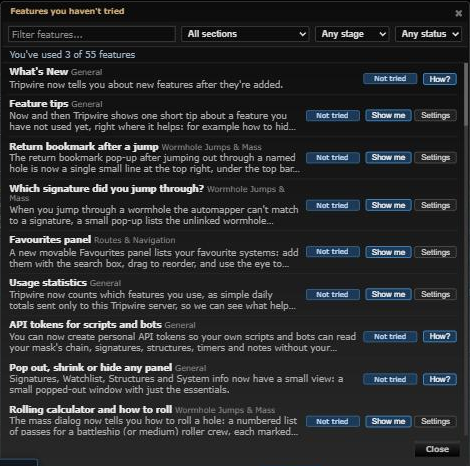
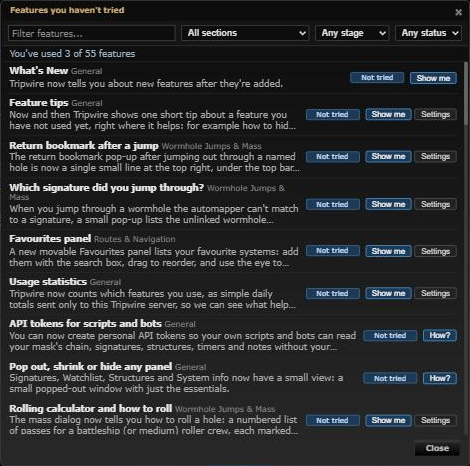
Features hub: review round 2
Hook-level tests for Try it not counting as use (forkCommands.execute and panelModes.setMode wrappers, featuresHub.open);
no Try it on What's New's own entry; retaken after.png / What's New image, Getting started link screenshot.

diff --git a/app/js-test/fork/try-it-usage.test.js b/app/js-test/fork/try-it-usage.test.js
@@ -1,0 +1,129 @@
+const assert = require('assert');
+const { include } = require('../helpers/helpers');
+
+function loadFiles() {
+	include('app/js/fork/feature-usage');
+	include('app/js/fork/feature-actions');
+	include('app/js/fork/features-hub');
+}
+
+// "Try it" / "Show me" (forkFeatureActions.tryIt) is not the user using the feature it shows: forkUsage's real hooks
+// (installHooks) must not count what tryIt runs, and must count the user's own use afterwards.
+describe('Try it does not count as use (forkUsage hooks + forkFeatureActions)', () => {
+	// Loaded here, not at file load: other test files replace or delete these globals while mocha loads them
+	before(loadFiles);
+	const catalog = { internal: ['app'], features: [
+		{ id: 'jumpPlanner', try: 'jumpPlanner.open', settingsKey: null, commands: ['jumpPlanner.open'], panels: ['jumpPlannerWidget'], use: [] },
+		{ id: 'featuresHub', try: 'features.open', settingsKey: null, commands: ['features.open'], panels: [], use: ['opened', 'tried'] }
+	] };
+	// Globals installHooks would wrap or listen on; other test files may have defined some of them
+	const NAMES = ['forkCommands', 'commandPalette', 'whatsNew', 'panelHost', 'panelModes', 'forkSettings', 'document', 'window', 'setInterval', 'options', '$'];
+	let saved, savedUsage;
+	const flush = () => new Promise(r => setImmediate(r));
+
+	beforeEach(() => {
+		saved = {};
+		NAMES.forEach(n => { saved[n] = global[n]; global[n] = undefined; });
+		savedUsage = { pending: forkUsage.pending, index: forkUsage.index, serverKnown: forkUsage.serverKnown, server: forkUsage.server, queue: forkUsage.queue, listeners: forkUsage.listeners, debugOn: forkUsage.debugOn };
+		global.document = { addEventListener: () => {} };
+		global.window = { addEventListener: () => {} };
+		global.setInterval = () => 0;
+		global.options = { saveDelay: () => {} };
+		forkUsage.pending = {};
+		forkUsage.queue = [];
+		forkUsage.listeners = [];
+		forkUsage.debugOn = false;
+		forkUsage.index = forkUsage.buildIndex(catalog);
+		forkUsage.serverKnown = true;
+		forkUsage.server = { enabled: true, token: 't'.repeat(64) };
+		forkFeatureActions.setCatalog(catalog);
+		forkFeatureActions.trying = null;
+	});
+	afterEach(() => {
+		NAMES.forEach(n => { global[n] = saved[n]; });
+		Object.assign(forkUsage, savedUsage);
+		forkFeatureActions.setCatalog(null);
+		forkFeatureActions.trying = null;
+	});
+
+	it('a command run by tryIt is not counted; the same command run by the user afterwards is', async () => {
+		const command = { id: 'jumpPlanner.open', title: 'Jump planner', run: () => {} };
+		global.forkCommands = { commands: [command], execute: () => Promise.resolve({ ok: true }) };
+		forkUsage.installHooks();
+		const env = forkFeatureActions.env;
+		forkFeatureActions.env = () => ({ command: () => ({ available: true, hasArgs: false }) });
+		try {
+			assert.deepStrictEqual(forkFeatureActions.tryIt('jumpPlanner'), { did: 'command', id: 'jumpPlanner.open' });
+			await flush();
+		} finally { forkFeatureActions.env = env; }
+		assert.strictEqual(forkUsage.pending['jumpPlanner.command'], undefined);
+		assert.ok(!forkUsage.used('jumpPlanner'));
+		assert.strictEqual(forkFeatureActions.trying, null, 'cleared once the result is in');
+
+		await forkCommands.execute(command, {}, {});
+		await flush();
+		assert.strictEqual(forkUsage.pending['jumpPlanner.command'], 1);
+		assert.ok(forkUsage.used('jumpPlanner'));
+	});
+
+	it('a panel restored by tryIt (panelModes.setMode) counts neither panelModes.mode nor opened', () => {
+		global.panelModes = { setMode: () => {}, opts: () => ({}), defOf: () => ({}), modeFor: () => 'restore' };
+		forkUsage.installHooks();
+		forkFeatureActions.trying = { id: 'jumpPlanner', until: Date.now() + 1000 };
+		panelModes.setMode('jumpPlannerWidget', 'restore');
+		assert.deepStrictEqual(forkUsage.pending, {});
+		forkFeatureActions.trying = null;
+		panelModes.setMode('jumpPlannerWidget', 'restore');
+		assert.strictEqual(forkUsage.pending['jumpPlanner.opened'], 1);
+	});
+});
+
+describe('featuresHub.open counts opened once', () => {
+	before(loadFiles);
+	let saved;
+	beforeEach(() => {
+		saved = { $: global.$, forkUsage: global.forkUsage, whatsNew: global.whatsNew, load: forkFeatureActions.load, trying: forkFeatureActions.trying };
+		// A chainable jQuery stand-in: every call and property returns itself (no dialog is really made)
+		const chain = new Proxy(function() {}, { get: (t, p) => p === 'then' ? undefined : p === 'length' ? 1 : chain, apply: () => chain });
+		global.$ = chain;
+		global.whatsNew = undefined;
+		forkFeatureActions.load = () => new Promise(() => {});
+		forkFeatureActions.trying = null;
+	});
+	afterEach(() => {
+		global.$ = saved.$;
+		global.forkUsage = saved.forkUsage;
+		global.whatsNew = saved.whatsNew;
+		forkFeatureActions.load = saved.load;
+		forkFeatureActions.trying = saved.trying;
+	});
+	const calls = () => {
+		const list = [];
+		global.forkUsage = { track: (f, a) => list.push(f + '.' + a) };
+		return list;
+	};
+
+	it('from Settings, What\'s New or Getting started: opened', () => {
+		const list = calls();
+		featuresHub.open();
+		assert.deepStrictEqual(list, ['featuresHub.opened']);
+	});
+	it('from Ctrl+K (open(true)): nothing here, forkUsage counts featuresHub.command', () => {
+		const list = calls();
+		featuresHub.open(true);
+		assert.deepStrictEqual(list, []);
+	});
+	it('run by What\'s New\'s Try it: nothing', () => {
+		const list = calls();
+		forkFeatureActions.trying = { id: 'featuresHub', until: Date.now() + 1000 };
+		featuresHub.open();
+		assert.deepStrictEqual(list, []);
+	});
+	it('reset the status and text filters on each open', () => {
+		calls();
+		featuresHub.state = { section: 'intel', stage: 'core', status: 'used', text: 'x' };
+		featuresHub.open();
+		assert.deepStrictEqual(featuresHub.state, { section: 'intel', stage: 'core', status: '', text: '' });
+		featuresHub.state = { section: '', stage: '', status: '', text: '' };
+	});
+});

diff --git a/app/js/whats-new.js b/app/js/whats-new.js
@@ -81,7 +81,7 @@ const whatsNew = {
 		const esc = whatsNew.escape;
 		const status = info.status === "used" ? "<span class='whats-new-used' title='You have used this'>&#10003; You've used this</span>"
 			: info.status === "off" ? "<span class='whats-new-off' title='Turned off in Settings'>Turned off</span>" : "";
-		const tryIt = info.canTry ? "<button type='button' class='whats-new-try' data-feature='" + esc(info.feature) + "'>"
+		const tryIt = info.canTry && info.feature !== "whatsNew" ? "<button type='button' class='whats-new-try' data-feature='" + esc(info.feature) + "'>"
 			+ (info.status === "off" ? "Turn it on" : "Try it") + "</button>" : "";
 		return status || tryIt ? "<div class='whats-new-actions'>" + tryIt + status + "</div>" : "";
 	},

diff --git a/app/js-test/whatsNew.test.js b/app/js-test/whatsNew.test.js
@@ -90,6 +90,10 @@ describe('What\'s New', () => {
 
 		it('No actions without infoFor (catalog not loaded): as before', () => assert.ok(!whatsNew.render(features, 0).includes('whats-new-actions')));
 
+		it('No Try it on What\'s New\'s own entry (it would only reopen this dialog)', () => {
+			assert.ok(!whatsNew.actionsHtml({ feature: 'whatsNew', status: 'new', canTry: true }).includes('whats-new-try'));
+		});
+
 		it('Escapes the feature id', () => assert.ok(!whatsNew.actionsHtml({ feature: "x' onclick='y", canTry: true }).includes("' onclick")));
 	});
 

diff --git a/changes/2026-10-18-features-hub/README.md b/changes/2026-10-18-features-hub/README.md
@@ -17,6 +17,10 @@ re-teach.
 
 Before: Settings > General with no Features row. After: the Features dialog.
 
+The "See all features" link in the Getting started card:
+
+![Getting started card with the See all features link](after-getting-started-link.png)
+
 ## Settings
 
 No toggle: the dialog only opens when the user asks for it (pull, never pushed), so there is nothing to turn off.
@@ -44,9 +48,12 @@ No tip: the Getting started card ("See all features") and the What's New footer 
   use actions meanwhile (`feature-usage.js`); panel restores by Try it don't count as `panelModes.mode`. The user's own
   later use counts as before. This also fixes What's New's Try it.
 - `app/js/fork/feature-actions.js`: `features.open` and `app.whatsNew` added to the Try it allow-list (`TRY_SAFE`);
-  catalog `try` for `featuresHub` and `whatsNew`.
+  catalog `try` for `featuresHub` and `whatsNew`. `app/js/whats-new.js` (fork file, one line): no Try it on What's
+  New's own entry (it would only reopen the dialog).
 - Catalog: `featuresHub` (use: `opened`, `tried`; event: `settings`; command `features.open`, which counts as
   `featuresHub.command` from Ctrl+K instead of also `opened`).
 - Tests: `app/js-test/fork/features-hub.test.js` (audience, description, sort, filter, summary, markup), plus Try it
-  tests in `feature-actions.test.js` / `feature-usage.test.js` and the card link in `getting-started.test.js`.
+  tests in `feature-actions.test.js` / `feature-usage.test.js`, `try-it-usage.test.js` (forkUsage's real hooks: a
+  command and a panel restore run by Try it aren't counted, the user's own later use is; `featuresHub.open` counts
+  `opened` once) and the card link in `getting-started.test.js`.
 - No upstream files touched.
